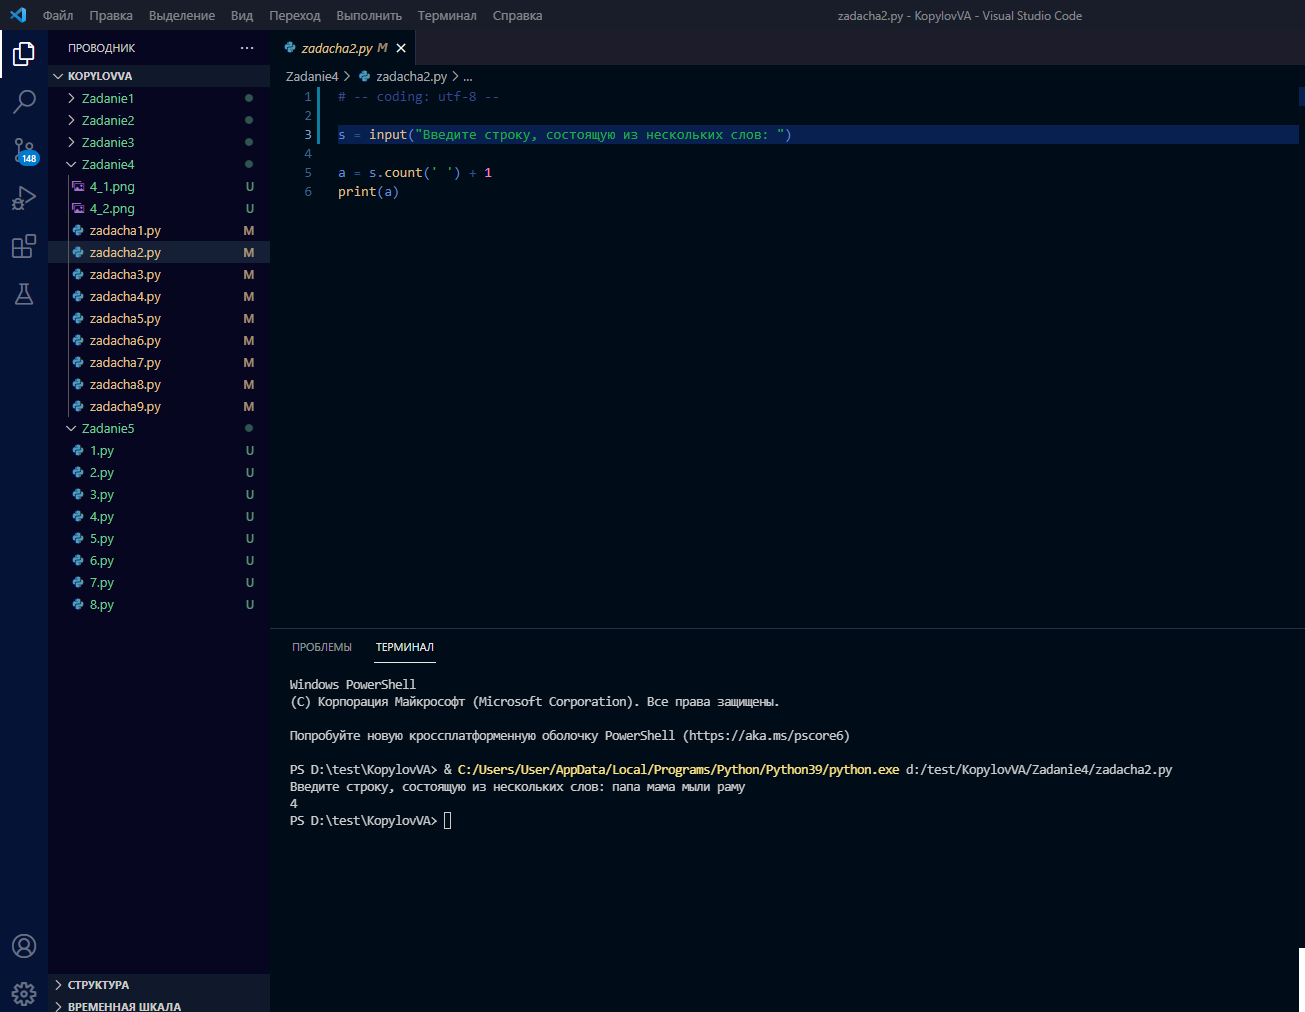
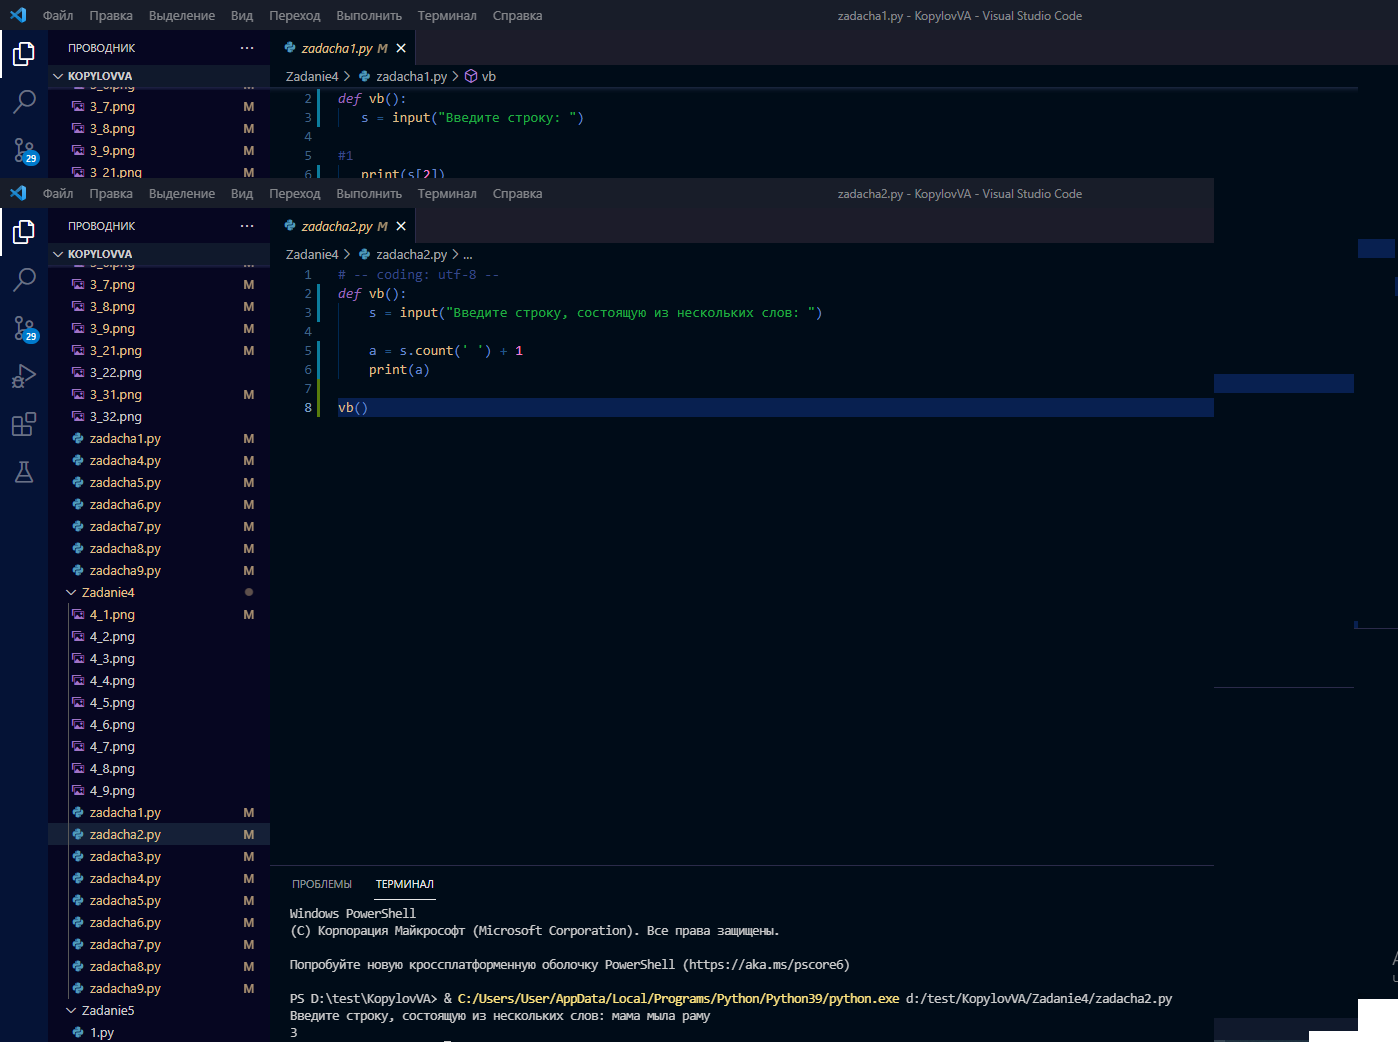
v4

diff --git a/Zadanie3/zadacha9.py b/Zadanie3/zadacha9.py
@@ -1,15 +1,17 @@
 # -- coding: utf-8 --
+def vi():
+   n = int(input("Введите количество чисел n "))
 
-n = int(input("Введите количество чисел n "))
+   if n == 1:
+       sum = 1
+   else:
+       F1 = 1
+       F2 = 1
 
-if n == 1:
-    sum = 1
-else:
-    F1 = 1
-    F2 = 1
+       sum = F1 + F2
+       for i in range(n - 2): 
+           F1,F2 = F2, F1 + F2 
+           sum += F2 
+   print(sum)
 
-    sum = F1 + F2
-    for i in range(n - 2): 
-        F1,F2 = F2, F1 + F2 
-        sum += F2 
-print(sum)
+vi()

diff --git a/Zadanie3/Zadacha3/zadacha31.py b/Zadanie3/Zadacha3/zadacha31.py
@@ -1,12 +1,14 @@
 # -- coding: utf-8 --
+def vi():
 
-A = int(input("Введите число A "))
-B = int(input("Введите число B "))
+   A = int(input("Введите число A "))
+   B = int(input("Введите число B "))
 
-if A % 2 == 0:
-    for i in range(A - 1, B - 1, -2):
-        print(i)
-else:
-  for i in range(A, B - 1, -2):
-    print(i)
-    
+   if A % 2 == 0:
+       for i in range(A - 1, B - 1, -2):
+           print(i)
+   else:
+     for i in range(A, B - 1, -2):
+       print(i)  
+
+vi()   

diff --git a/Zadanie3/Zadacha2/zadacha21.py b/Zadanie3/Zadacha2/zadacha21.py
@@ -1,11 +1,13 @@
 # -- coding: utf-8 --
+def vi():
+    A = int(input("Введите число A "))
+    B = int(input("Введите число B "))
 
-A = int(input("Введите число A "))
-B = int(input("Введите число B "))
+    if A < B:
+        for i in range(A,B + 1):
+            print(i)
+    else:
+        for i in range( A , B - 1, -1):
+            print(i)
 
-if A < B:
-    for i in range(A,B + 1):
-        print(i)
-else:
-    for i in range( A , B - 1, -1):
-        print(i)
+vi()

diff --git a/Zadanie4/zadacha1.py b/Zadanie4/zadacha1.py
@@ -1,30 +1,32 @@
 # -- coding: utf-8 --
-
-s = input("Введите строку: ")
+def vb():
+   s = input("Введите строку: ")
 
 #1
-print(s[2])
+   print(s[2])
 
 #2
-print(s[-2])
+   print(s[-2])
 
 #3
-print(s[:5])
+   print(s[:5])
 
 #4
-print(s[:-2])
+   print(s[:-2])
 
 #5
-print(s[: :2])
+   print(s[: :2])
 
 #6
-print(s[1: :2])
+   print(s[1: :2])
 
 #7
-print(s[: :-1])
+   print(s[: :-1])
 
 #8
-print(s[::-2])
+   print(s[::-2])
 
 #9
-print(len(s))
+   print(len(s))
+
+vb()

diff --git a/Zadanie4/zadacha4.py b/Zadanie4/zadacha4.py
@@ -1,12 +1,14 @@
 # -- coding: utf-8 --
+def vb():
+    s = input("Введите строку, состоящую из двух слов, разделенных пробелом: ")
 
-s = input("Введите строку, состоящую из двух слов, разделенных пробелом: ")
+    p = s.find(' ')
 
-p = s.find(' ')
+    s1 = s[:p]
+    s2 = s[p + 1:]
 
-s1 = s[:p]
-s2 = s[p + 1:]
+    a = s2 + " " + s1
 
-a = s2 + " " + s1
-
-print(a)
+    print(a)
+    
+vb()

diff --git a/Zadanie4/zadacha6.py b/Zadanie4/zadacha6.py
@@ -1,16 +1,16 @@
 # -- coding: utf-8 --
+def vb():
+    s = input("Введите строку: ")
 
-s = input("Введите строку: ")
+    if s.count ('f') == 1:
+        print(-1)
 
-if s.count ('f') == 1:
-    print(-1)
+    elif s.count ('f') < 1:
+        print(-2)
 
-elif s.count ('f') < 1:
-    print(-2)
+    else:
+       a = s.find('f') + 1
+       print(s.find('f',a))
 
-else:
-   a = s.find('f') + 1
-   print(s.find('f',a))
-
-   
+vb()  
 

diff --git a/Zadanie3/zadacha4.py b/Zadanie3/zadacha4.py
@@ -1,9 +1,11 @@
 # -- coding: utf-8 --
+def vi():
+   n = int(input("Введите количество чисел n "))
 
-n = int(input("Введите количество чисел n "))
+   sum = 0
+   for i in range(1,n + 1):
+       a = int(input("Введите целое число "))
+       sum += a 
+   print(sum)
 
-sum = 0
-for i in range(1,n + 1):
-    a = int(input("Введите целое число "))
-    sum += a 
-print(sum)
+vi()

diff --git a/Zadanie4/zadacha3.py b/Zadanie4/zadacha3.py
@@ -1,16 +1,19 @@
 # -- coding: utf-8 --
+def vb():
 
-s = input("Введите строку: ")
+    s = input("Введите строку: ")
 
-dlinas = len(s)
+    dlinas = len(s)
 
-dlinas2 = dlinas // 2
+    dlinas2 = dlinas // 2
 
-dlinas1 = dlinas - dlinas2
+    dlinas1 = dlinas - dlinas2
 
-s1 = s[:dlinas1]
-s2 = s[dlinas1:]
+    s1 = s[:dlinas1]
+    s2 = s[dlinas1:]
 
-p = s2 + s1
+    p = s2 + s1
  
-print(p)
+    print(p)
+
+vb()

diff --git a/Zadanie4/zadacha5.py b/Zadanie4/zadacha5.py
@@ -1,9 +1,11 @@
 # -- coding: utf-8 --
+def vb():
+   s = input("Введите строку: ")
 
-s = input("Введите строку: ")
-
-if s.count ('f') ==1:
-    print(s.find('f'))
+   if s.count ('f') ==1:
+       print(s.find('f'))
     
-elif s.count('f') >= 2:
-    print(s.find('f'),";",s.rfind('f'))
+   elif s.count('f') >= 2:
+       print(s.find('f'),";",s.rfind('f'))
+
+vb()

diff --git a/Zadanie3/zadacha7.py b/Zadanie3/zadacha7.py
@@ -1,10 +1,12 @@
 # -- coding: utf-8 --
+def vi():
+   n = int(input("Введите число n "))
 
-n = int(input("Введите число n "))
+   sum = 0
+   pr  = 1
+   for i in range(1,n + 1):
+       pr  *= i
+       sum += pr
+   print(sum)
 
-sum = 0
-pr  = 1
-for i in range(1,n + 1):
-    pr  *= i
-    sum += pr
-print(sum)
+vi()

diff --git a/Zadanie3/zadacha1.py b/Zadanie3/zadacha1.py
@@ -1,7 +1,8 @@
 # -- coding: utf-8 --
+def vi():
+   A = int(input("Введите число A "))
+   B = int(input("Введите число B "))
 
-A = int(input("Введите число A "))
-B = int(input("Введите число B "))
-
-for i in range(A, B + 1):
-    print(i)
+   for i in range(A, B + 1):
+       print(i)
+vi()

diff --git a/Zadanie4/zadacha2.py b/Zadanie4/zadacha2.py
@@ -1,6 +1,8 @@
 # -- coding: utf-8 --
+def vb():
+    s = input("Введите строку, состоящую из нескольких слов: ")
 
-s = input("Введите строку, состоящую из нескольких слов: ")
+    a = s.count(' ') + 1 
+    print(a)
 
-a = s.count(' ') + 1 
-print(a)
+vb()
